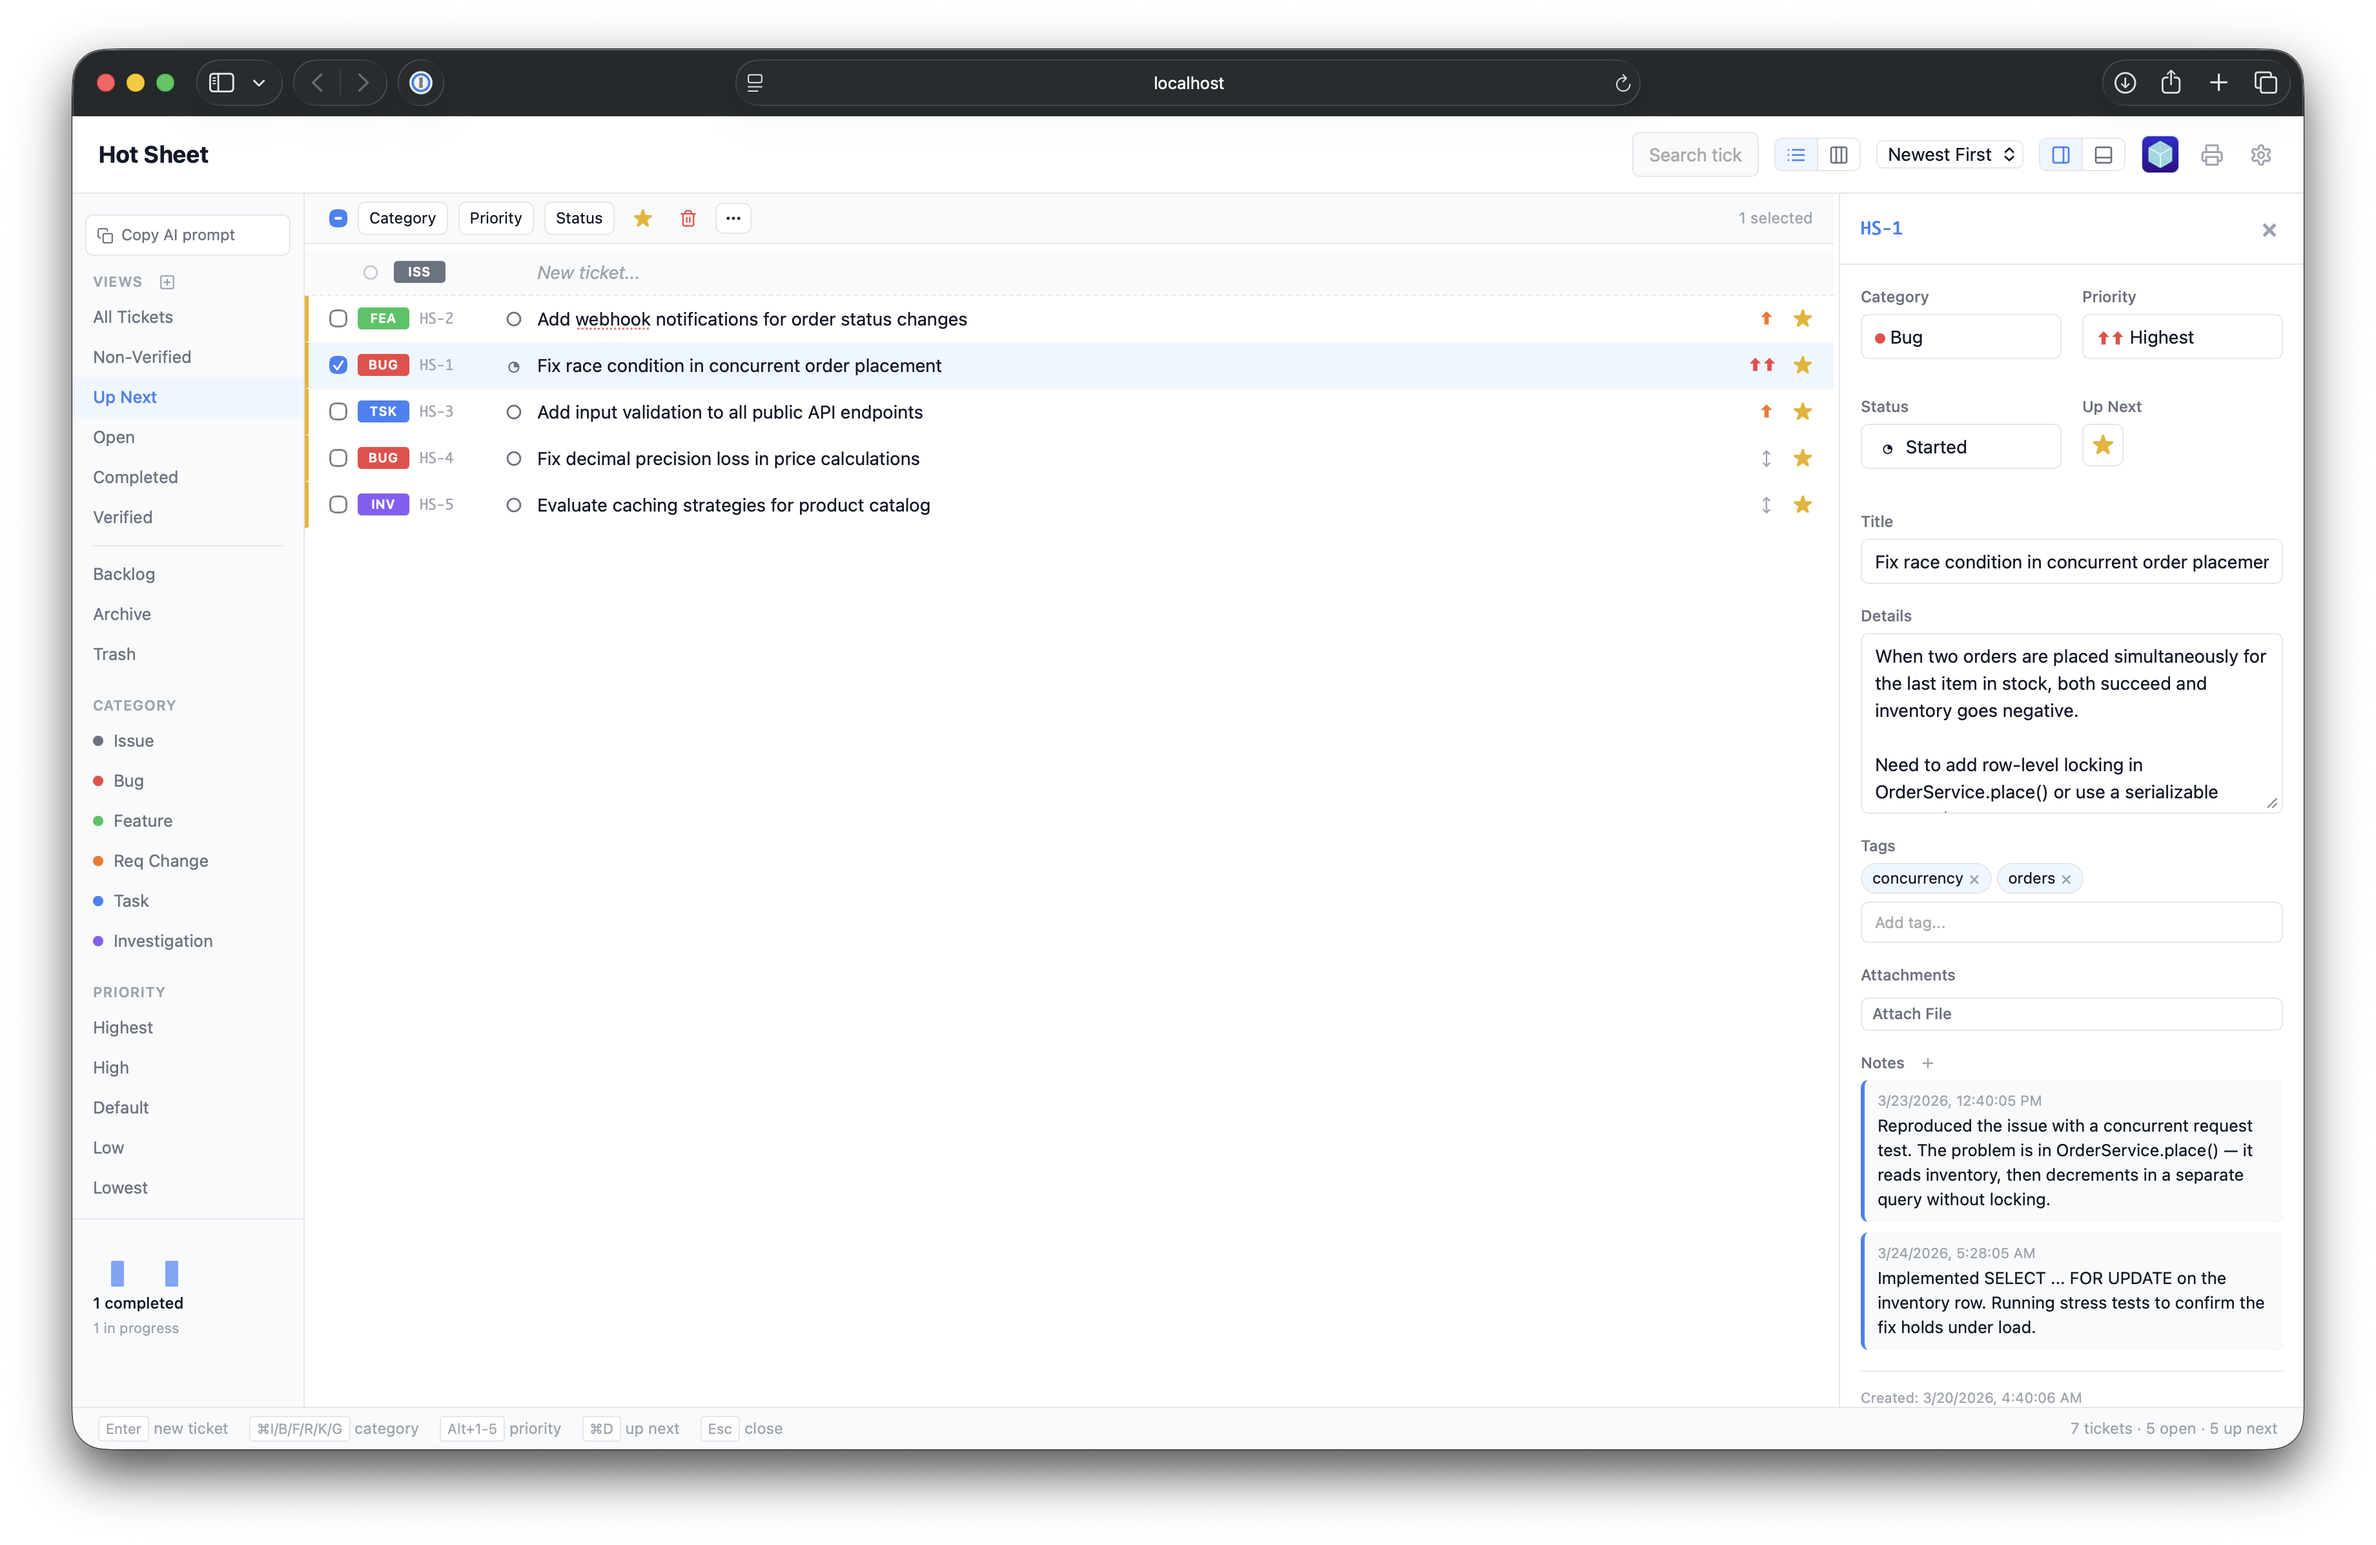
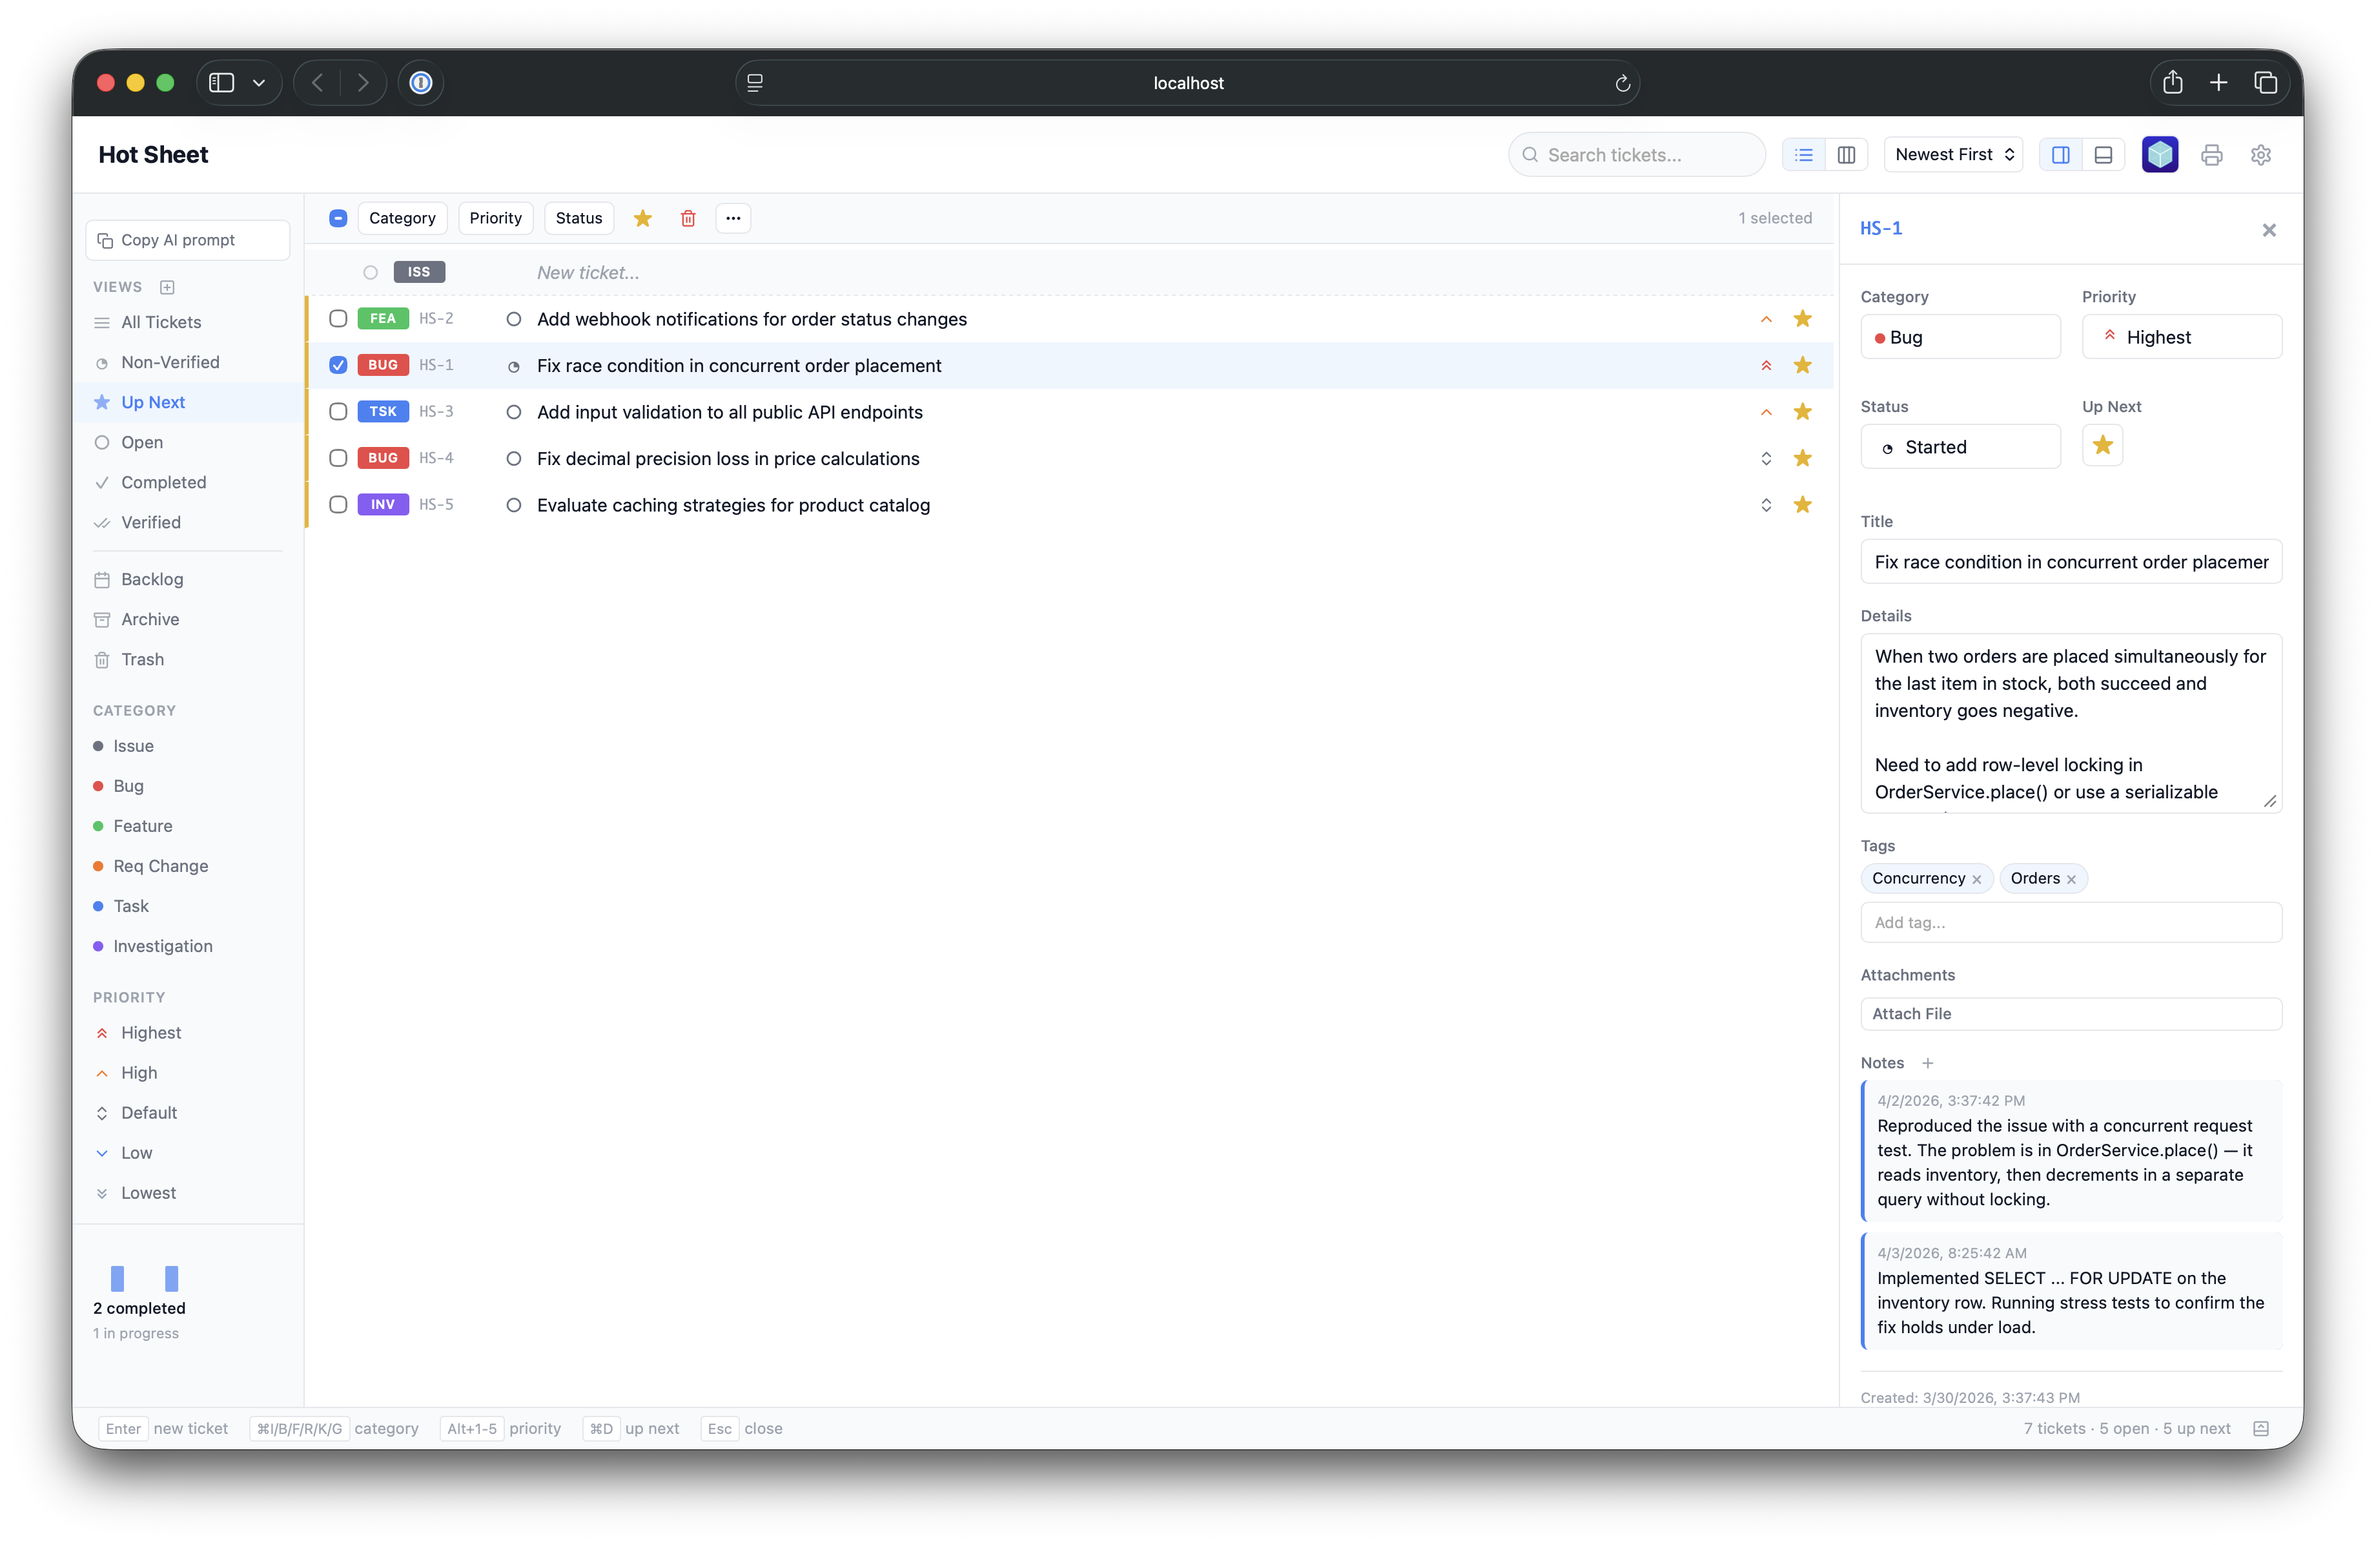
Updated readme

diff --git a/README.md b/README.md
@@ -107,20 +107,21 @@ The loop stays tight because the AI always knows what to work on next.
 **Also includes:**
 - **Tags** — free-form tags on tickets, with autocomplete and a batch tag dialog for multi-select
 - **Custom views** — create filtered views with an interactive query builder (field + operator + value conditions, AND/OR logic)
-- **Five priority levels** — Highest to Lowest, sortable and filterable
+- **Five priority levels** — Highest to Lowest, with Lucide chevron icons, sortable and filterable
 - **Up Next flag** — star tickets to add them to the AI worklist
-- **Drag and drop** — drag tickets onto sidebar views to change category, priority, or status; reorder custom views
-- **Right-click context menus** — full context menu on tickets with category/priority/status submenus, tags, duplicate, delete
+- **Drag and drop** — drag tickets onto sidebar views to change category, priority, or status; drop files onto the detail panel to attach; reorder custom views
+- **Right-click context menus** — full context menu on tickets with category/priority/status submenus, tags, duplicate, backlog, archive, delete — all with Lucide icons
 - **Search** — full-text search across ticket titles, details, and ticket numbers
 - **Print** — print the dashboard, all tickets, selected tickets, or individual tickets in checklist, summary, or full-detail format
 - **Keyboard-driven** — `Enter` to create, `Cmd+I/B/F/R/K/G` for categories, `Alt+1-5` for priority, `Cmd+D` for Up Next, `Delete` to trash, `Cmd+P` to print, `Cmd+Z/Shift+Z` for undo/redo
 - **Undo/redo** — `Cmd+Z` and `Cmd+Shift+Z` for all operations including notes, batch changes, and deletions
 - **Animated transitions** — smooth FLIP animations when tickets reorder after property changes
 - **Copy for commits** — `Cmd+C` copies selected ticket info (number + title + details + notes) for use in commit messages
-- **File attachments** — attach files to any ticket, reveal in file manager
+- **File attachments** — attach files via file picker or drag-and-drop onto the detail panel, reveal in file manager
 - **Markdown sync** — `worklist.md` and `open-tickets.md` auto-generated on every change
 - **Automatic backups** — tiered snapshots (every 5 min, hourly, daily) with preview-before-restore recovery
 - **Auto-cleanup** — configurable auto-deletion of old trash and verified items
+- **App icon variants** — 9 icon variants to choose from in Settings, applied instantly to the dock icon
 - **Fully local** — embedded PostgreSQL (PGLite), no network calls, no accounts, no telemetry
 
 ---
@@ -156,9 +157,12 @@ Hot Sheet automatically generates skill files for Claude Code (as well as Cursor
 Hot Sheet can push events directly to a running Claude Code session via MCP channels. Enable it in Settings → Experimental (the tab only appears when Claude Code is detected on your system):
 
 - **Play button** — appears in the sidebar. Single-click sends the worklist to Claude on demand.
-- **Auto mode** — double-click the play button to enable automatic mode. When you star a ticket for Up Next, Claude is notified after a 5-second debounce and picks up the work automatically.
-- **Custom commands** — create named buttons that send custom prompts to Claude. For example, a "Commit Changes" button that tells Claude to generate a commit message from recently completed tickets and commit. Configure in Settings → Experimental → Custom Commands.
-- **Status indicator** — shows "Claude working" / "Claude idle" in the footer.
+- **Auto mode** — double-click the play button to enable automatic mode. When you star a ticket for Up Next, Claude is notified after a 5-second debounce and picks up the work automatically. Exponential backoff prevents runaway retries.
+- **Auto-prioritize** — when no tickets are flagged as Up Next, Claude automatically evaluates open tickets and picks the most important ones to work on.
+- **Custom commands** — create named buttons that send custom prompts to Claude **or run shell commands** directly. Toggle between "Claude Code" and "Shell" targets per command. Shell commands execute server-side with stdout/stderr captured to the commands log.
+- **Permission relay** — when Claude needs tool approval (Bash, Edit, etc.), a full-screen overlay shows the tool name and command preview with Allow/Deny/Dismiss buttons — no need to switch to the terminal.
+- **Commands log** — a resizable bottom panel that records all communication: triggers, completions, permission requests, and shell command output. Filter by type, search, and copy entries. Shell commands show a stop button for running processes.
+- **Status indicator** — shows "Claude working" / "Shell running" / idle in the footer.
 
 Requires Claude Code v2.1.80+ with channel support. See [docs/12-claude-channel.md](docs/12-claude-channel.md) for setup details.
 
@@ -293,7 +297,10 @@ hotsheet --browser
 |------|-------------|
 | `--port <number>` | Port to run on (default: 4174) |
 | `--data-dir <path>` | Data directory (default: `.hotsheet/`) |
+| `--no-open` | Don't open the browser on startup |
+| `--strict-port` | Fail if the requested port is in use |
 | `--browser` | Open in browser instead of desktop window |
+| `--check-for-updates` | Check for new versions |
 | `--help` | Show help |
 
 ### Settings file
@@ -311,8 +318,9 @@ Create `.hotsheet/settings.json` to configure per-project options:
 |-----|-------------|
 | `appName` | Custom window title (defaults to the project folder name) |
 | `backupDir` | Backup storage path (defaults to `.hotsheet/backups/`) |
+| `appIcon` | Icon variant (`default`, `variant-1` through `variant-9`) |
 
-Both settings can also be changed from the settings panel UI.
+All settings can also be changed from the settings panel UI.
 
 ### Keyboard shortcuts
 
@@ -360,9 +368,15 @@ npm install
 
 npm run dev              # Build client assets, then run via tsx
 npm run build            # Build to dist/cli.js
+npm test                 # Unit tests with coverage (446 tests)
+npm run test:e2e         # E2E browser tests (55 tests)
+npm run test:all         # Merged coverage report (unit + E2E)
+npm run lint             # ESLint
 npm run clean            # Remove dist and caches
 npm link                 # Symlink for global 'hotsheet' command
 ```
+
+The project has comprehensive test coverage with 446 unit tests (vitest) and 55 Playwright E2E browser tests, plus 12 smoke tests for production install verification.
 
 ---
 
